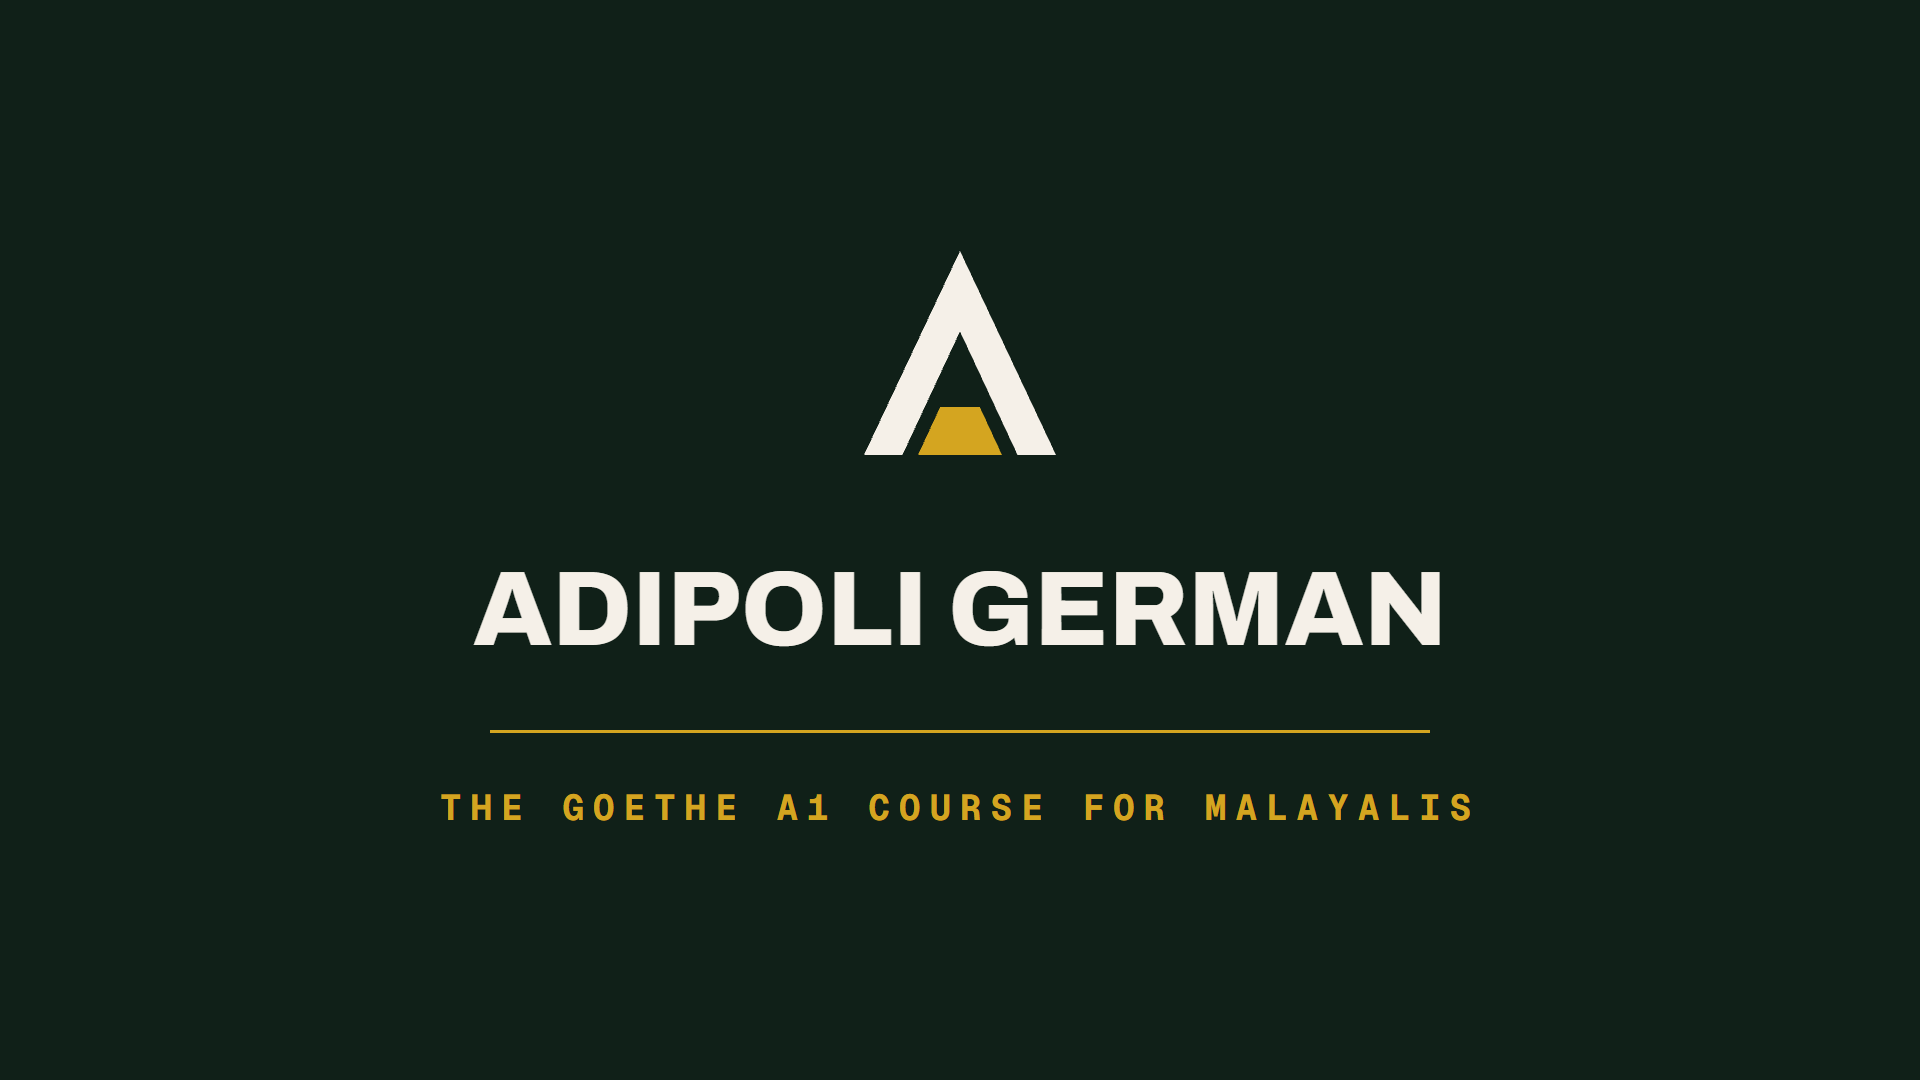
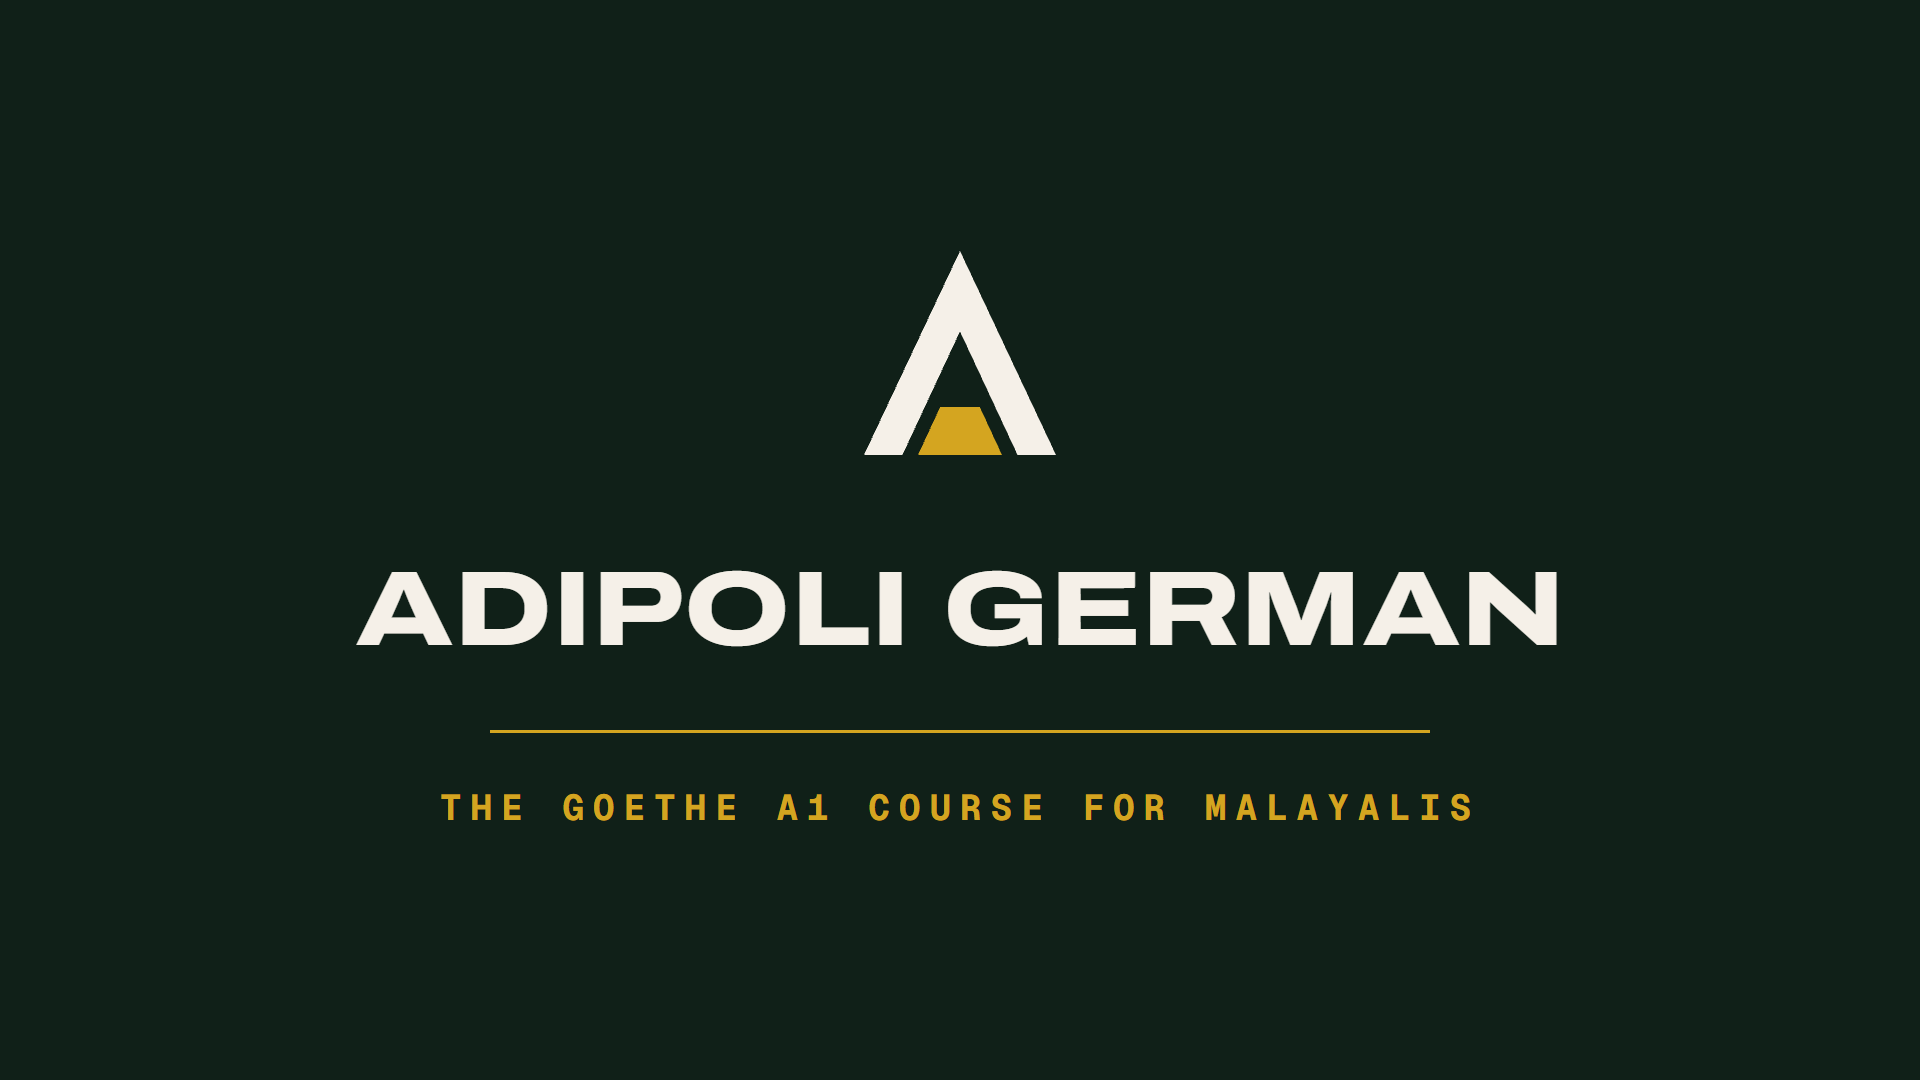
3p-04b: match promo title to canonical wordmark

Changed region(s): [[0.1875, 0.5194, 0.8125, 0.6111]]

diff --git a/tests/marketing-kit.test.ts b/tests/marketing-kit.test.ts
@@ -139,6 +139,12 @@ assert.match(fs.readFileSync(path.join(ROOT, "templates/carousel-master.svg"), "
 assert.match(fs.readFileSync(path.join(ROOT, "templates/carousel-master.svg"), "utf8"), /VARIANT-CONTENT/);
 assert.match(fs.readFileSync(path.join(ROOT, "templates/carousel-master.svg"), "utf8"), /VARIANT-QUIET-CTA/);
 
+const promoTitle = fs.readFileSync(path.join(ROOT, "promo/title.svg"), "utf8");
+assert.match(promoTitle, /class="impact" font-stretch="125%"[^>]*>ADIPOLI GERMAN<\/text>/, "promo opening title must use the canonical 125% Archivo wordmark treatment");
+const builder = fs.readFileSync(path.resolve("scripts/build-marketing-kit.mts"), "utf8");
+assert.match(builder, /Archivo:wdth,wght@62\.\.125,300\.\.900/, "marketing exports must load Archivo's approved width axis");
+assert.match(fs.readFileSync(path.resolve(".gitattributes"), "utf8"), /marketing\/adipoli-marketing-kit-v0\.1\/\*\* -text/, "marketing-kit hashes must be protected from checkout line-ending conversion");
+
 for (const preview of ["templates", "educational", "promo"]) {
   const file = path.join(ROOT, "preview", `${preview}-contact-sheet.png`);
   const dimensions = pngDimensions(file);